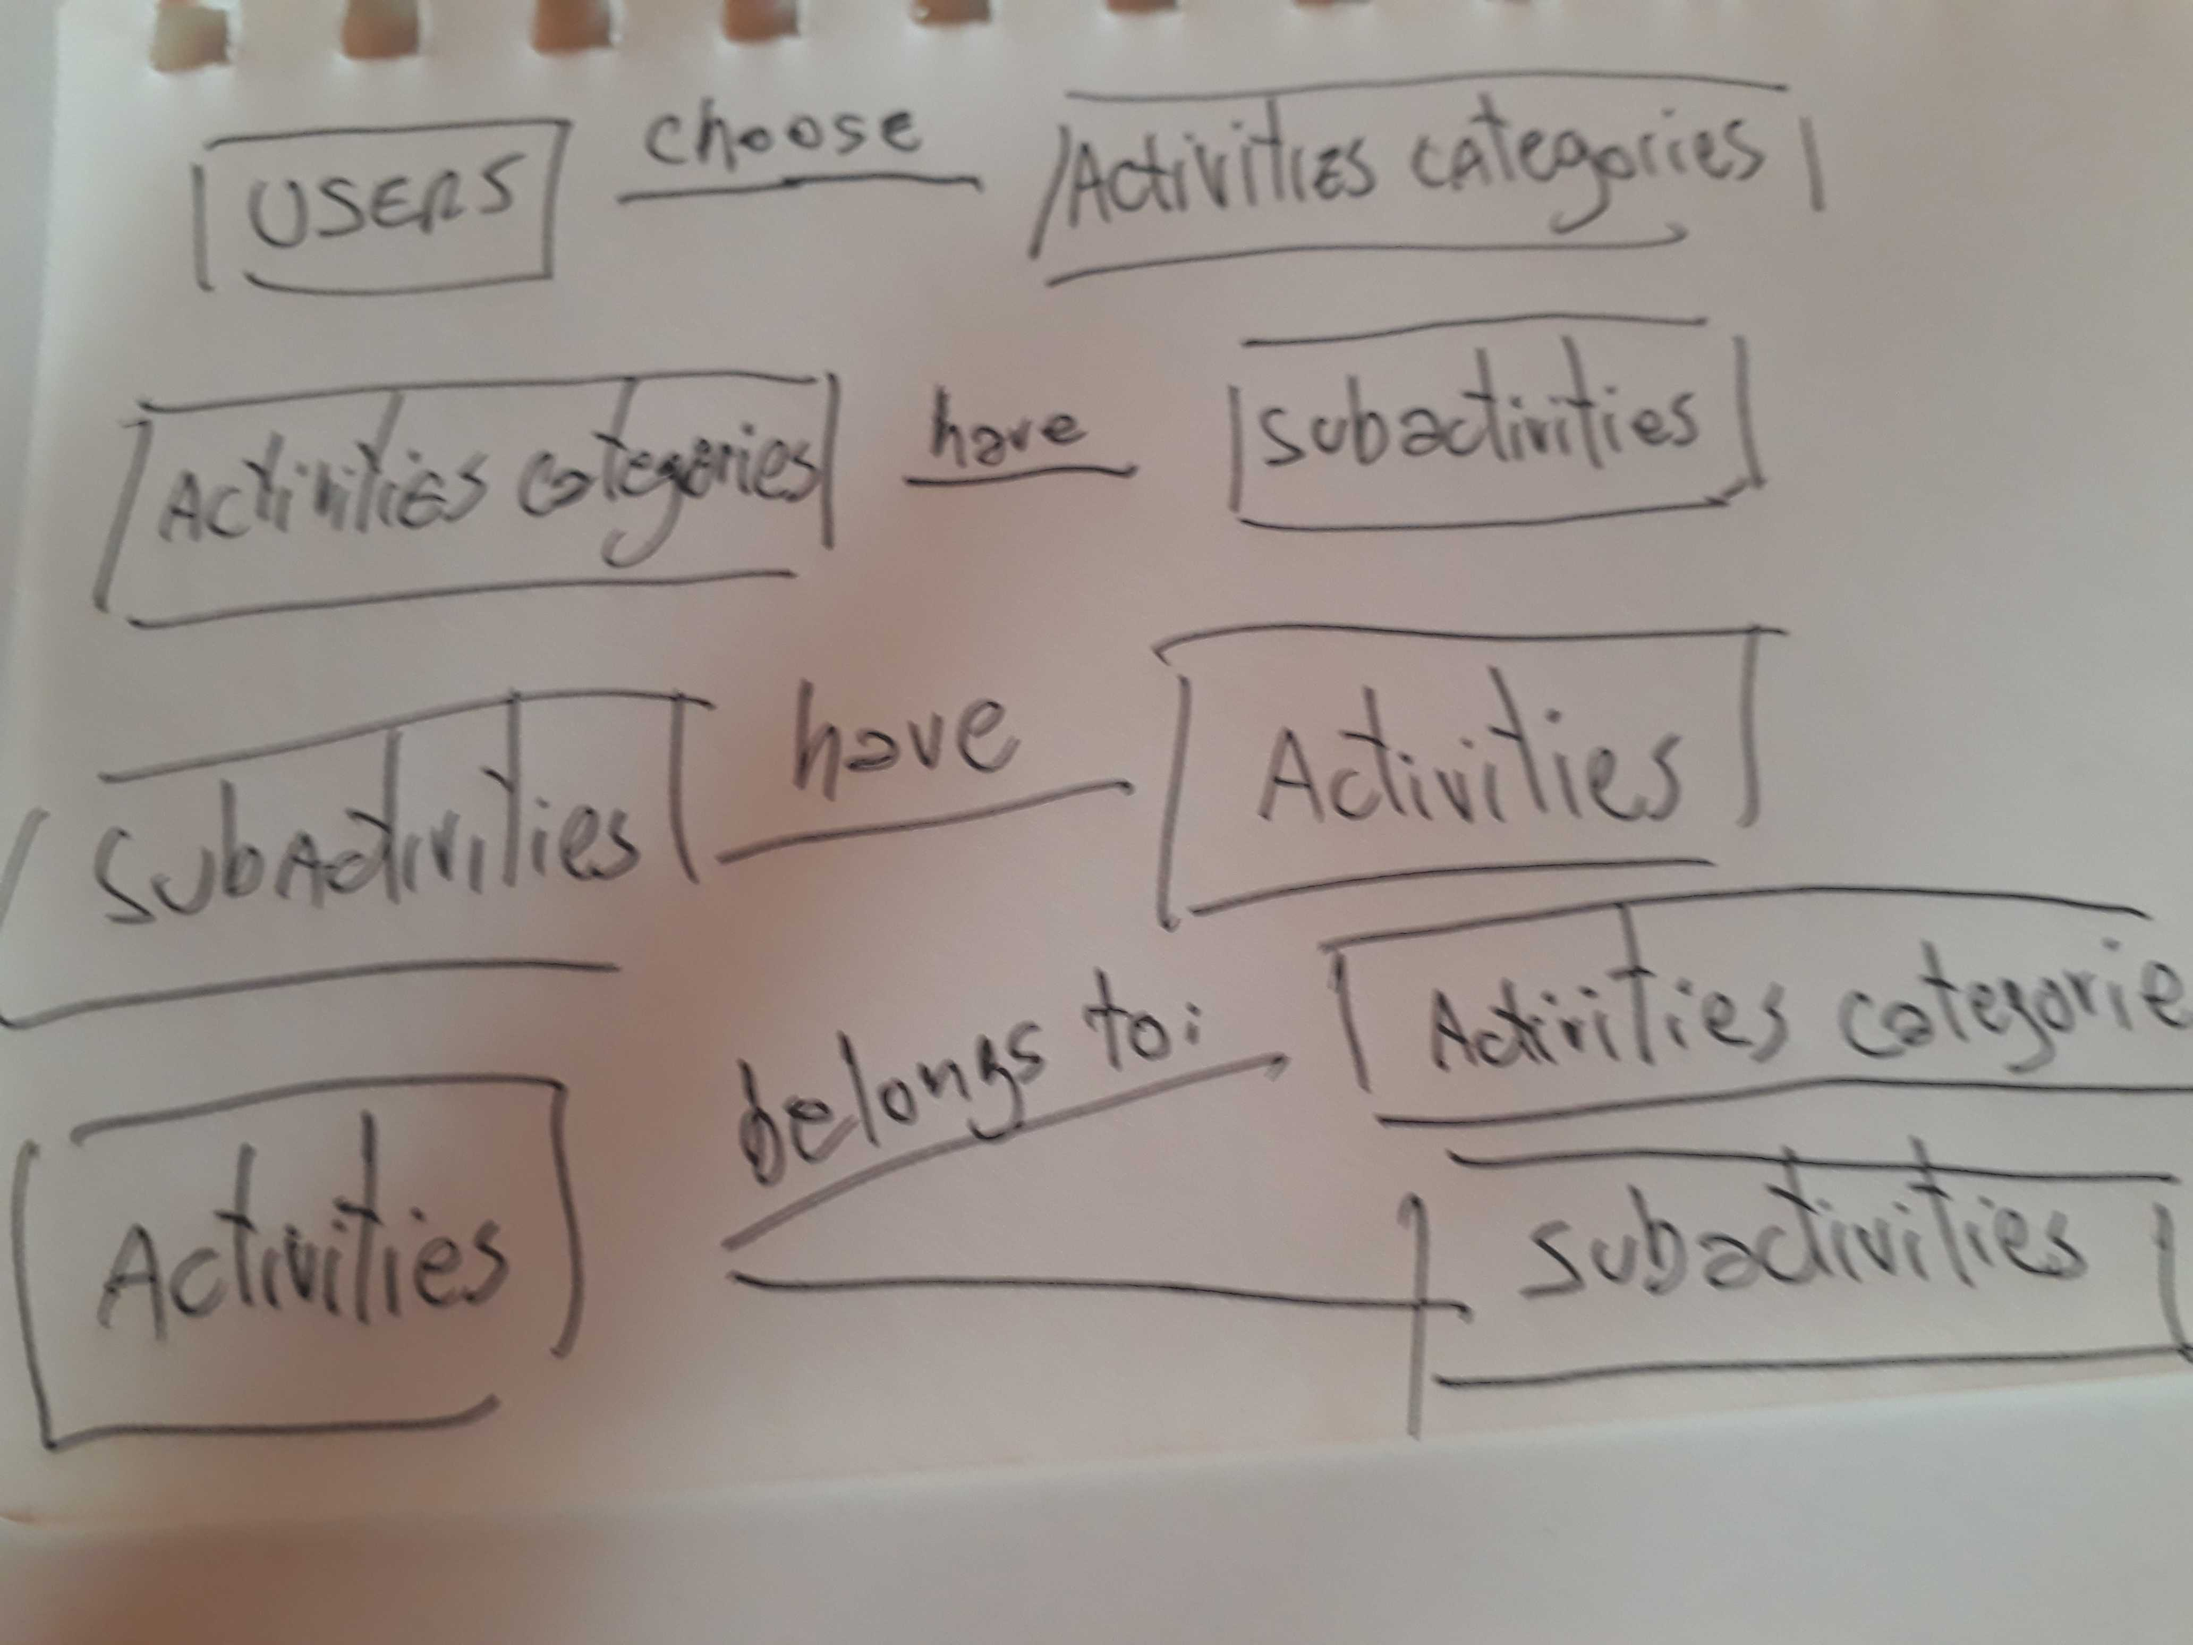
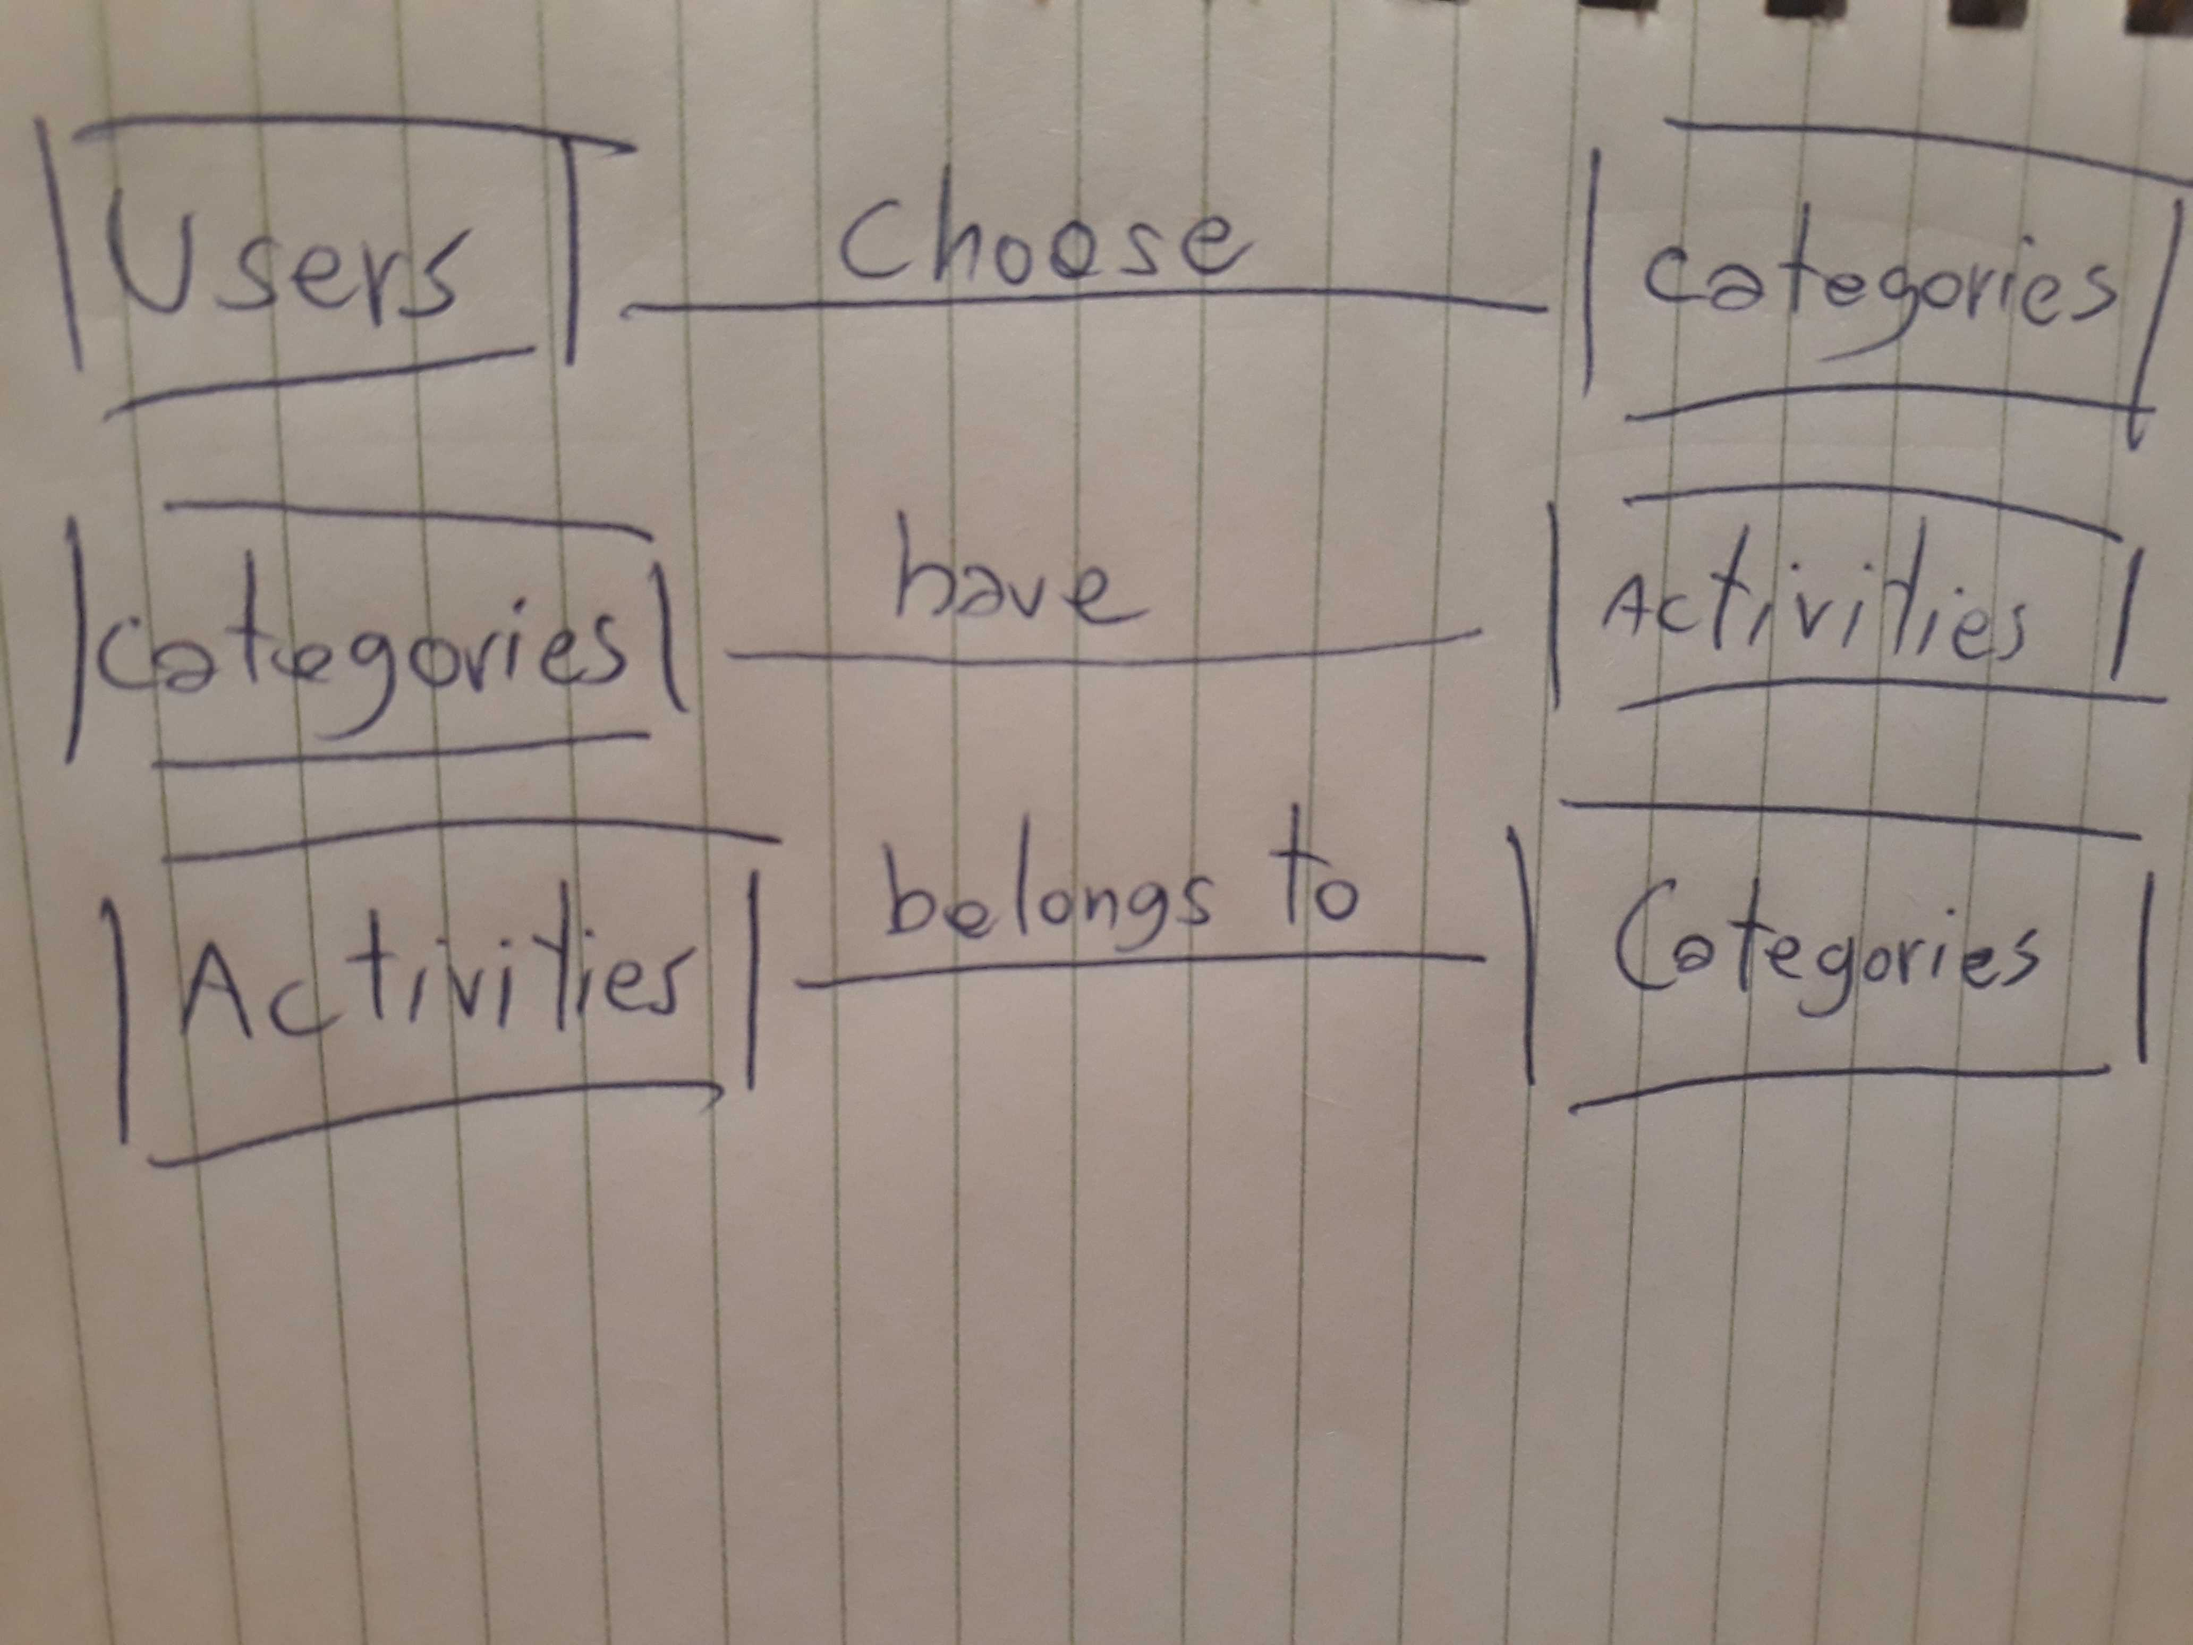
conceptual and logical model updated

diff --git a/README.md b/README.md
@@ -4,7 +4,8 @@ Proyecto de integración de contenido en Desafio Latam G28 Full Stack
 
 El proyecto es una aplicación que entrega aleatoriamente actividades para realizar en momentos de ocio. 
 Construida con Ruby 2.6.4, Ruby on Rails 5.2.3 y base de datos Postgresql.
-El diagrama conceptual muestra las principales entidades con las que trabajará la app:
+
+El siguiente diagrama conceptual muestra las principales entidades con las que trabajará la app:
 
 ![alt text][concept]
 
@@ -19,7 +20,7 @@ contempla las siguientes tablas/modelos con las relaciones indicadas, como se pu
 
 ![alt text][logic]
 
-[logic]: /modelo_lógico.png "Diagrama lógico"
+[logic]: /modelo_logico.jpg "Diagrama lógico"
 
 
 Para visualizar el landing page puede ingresar a:
